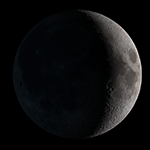
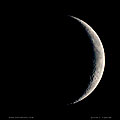
refactor moon phase

diff --git a/mw4/gui/mainWmixin/tabEnviron.py b/mw4/gui/mainWmixin/tabEnviron.py
@@ -596,15 +596,42 @@ class EnvironGui(object):
         :return: true for test purpose
         """
         phasesText = {
-            'New moon': (0, 2),
-            'Waxing crescent': (2, 23),
-            'First Quarter': (23, 27),
-            'Waxing Gibbous': (27, 48),
-            'Full moon': (48, 52),
-            'Waning Gibbous': (52, 73),
-            'Third quarter': (73, 77),
-            'Waning crescent': (2, 23),
-            'New moon ': (98, 100),
+            'New moon': {
+                'range': (0, 2),
+                'pic': ':/moon_new.png',
+            },
+            'Waxing crescent': {
+                'range': (2, 23),
+                'pic': ':/moon_waxing_crescent.png',
+            },
+            'First Quarter': {
+                'range': (23, 27),
+                'pic': ':/moon_first_quarter.png',
+            },
+            'Waxing Gibbous': {
+                'range': (27, 48),
+                'pic': ':/moon_waxing_gibbous.png',
+            },
+            'Full moon': {
+                'range': (48, 52),
+                'pic': ':/moon_full.png',
+            },
+            'Waning Gibbous': {
+                'range': (52, 73),
+                'pic': ':/moon_waning_gibbous.png',
+            },
+            'Third quarter': {
+                'range': (73, 77),
+                'pic': ':/moon_third_quarter.png',
+            },
+            'Waning crescent': {
+                'range': (2, 23),
+                'pic': ':/moon_waning_crescent.png',
+            },
+            'New moon ': {
+                'range': (98, 100),
+                'pic': ':/moon_new.png',
+            },
         }
 
         sun = self.app.planets['sun']
@@ -614,12 +641,17 @@ class EnvironGui(object):
         e = earth.at(self.app.mount.obsSite.timeJD)
         _, slon, _ = e.observe(sun).apparent().ecliptic_latlon()
         _, mlon, _ = e.observe(moon).apparent().ecliptic_latlon()
-        self.moonPhasePercent = int(((mlon.degrees - slon.degrees) % 360.0) / 3.6)
+
+        moonPhaseDegree = (mlon.degrees - slon.degrees) % 360.0
+        self.moonPhasePercent = int(moonPhaseDegree / 3.6)
 
         self.ui.moonPhasePercent.setText(f'{self.moonPhasePercent:3.0f}')
+        self.ui.moonPhaseDegree.setText(f'{moonPhaseDegree:3.0f}')
 
         for phase in phasesText:
-            if self.moonPhasePercent not in range(*phasesText[phase]):
+            if self.moonPhasePercent not in range(*phasesText[phase]['range']):
                 continue
             self.ui.moonPhaseText.setText(phase)
+            pixmap = PyQt5.QtGui.QPixmap(phasesText[phase]['pic']).scaled(60, 60)
+            self.ui.moonPic.setPixmap(pixmap)
         return True
